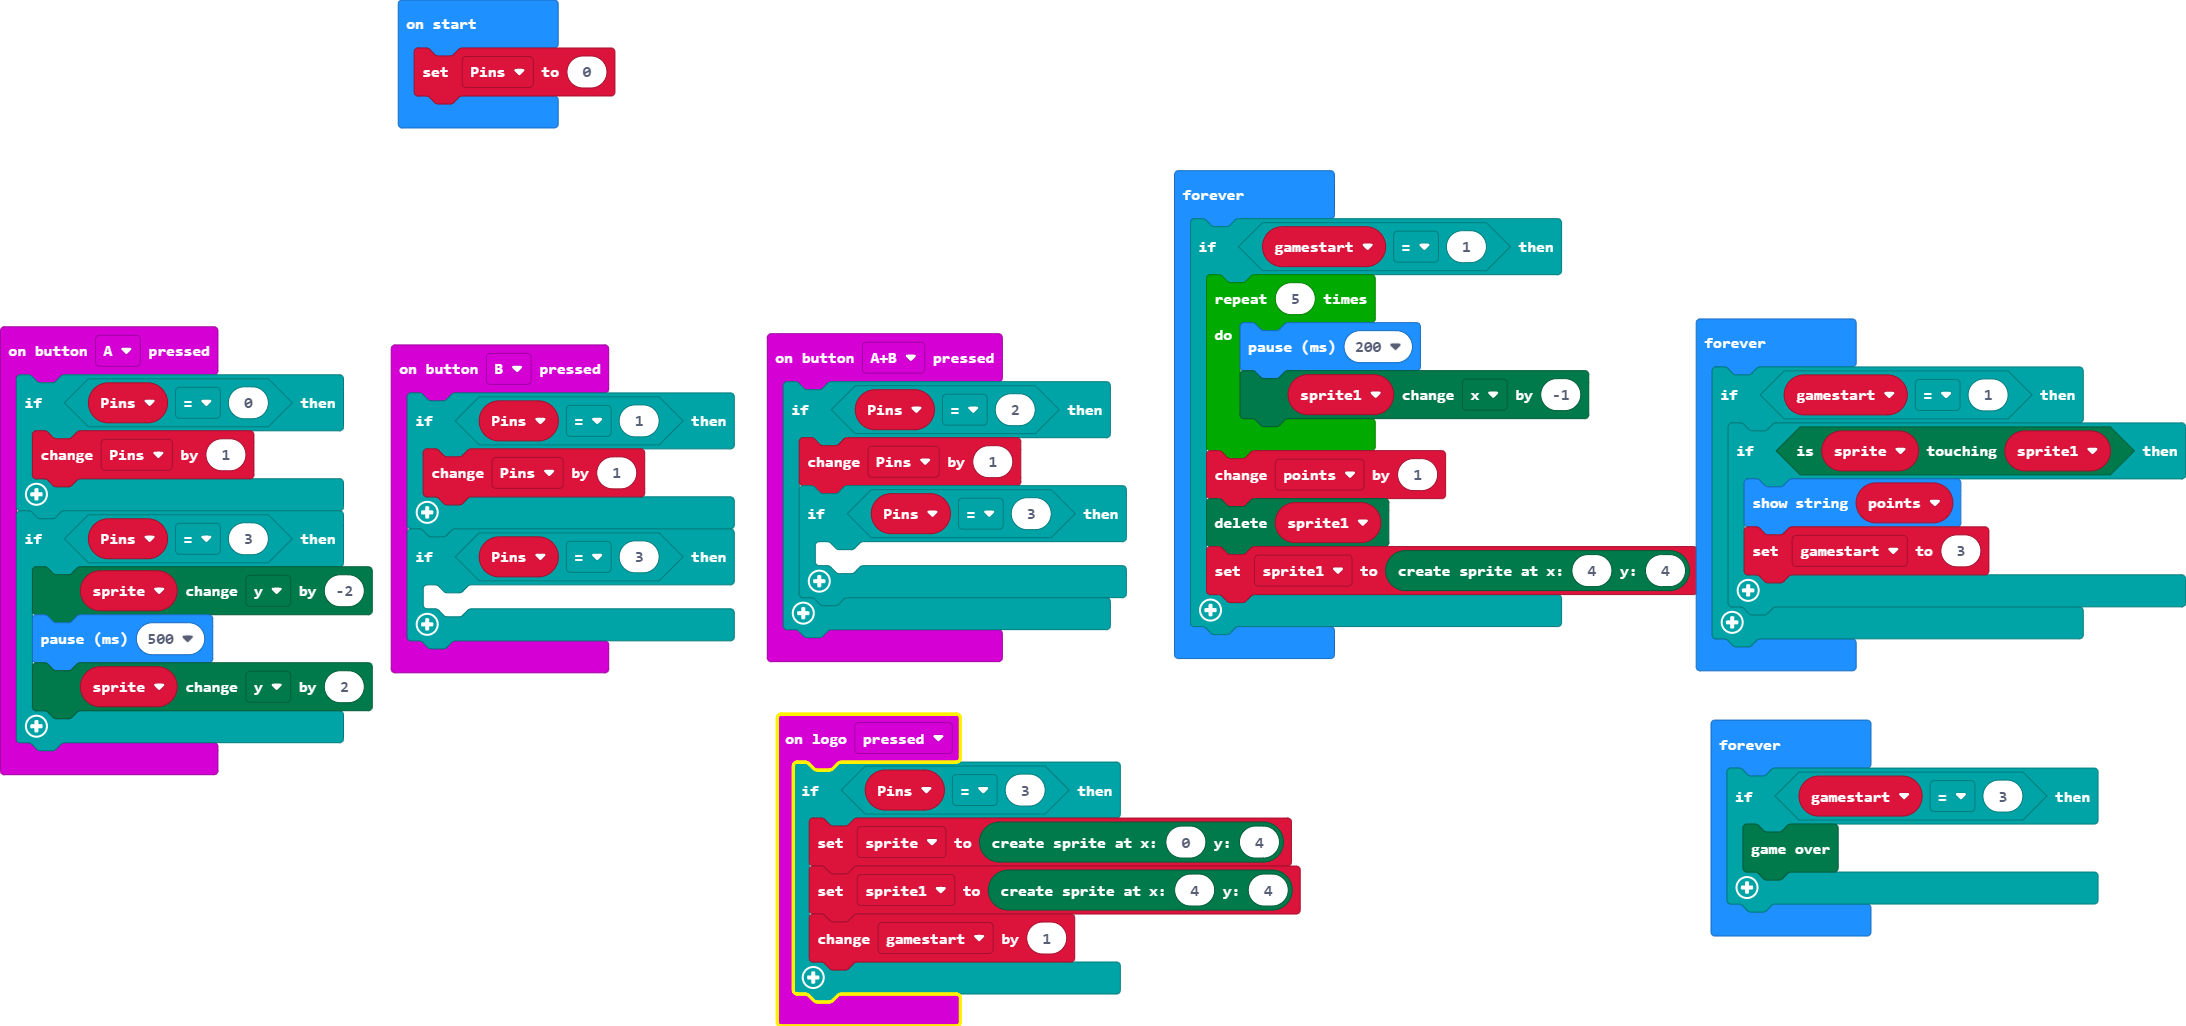
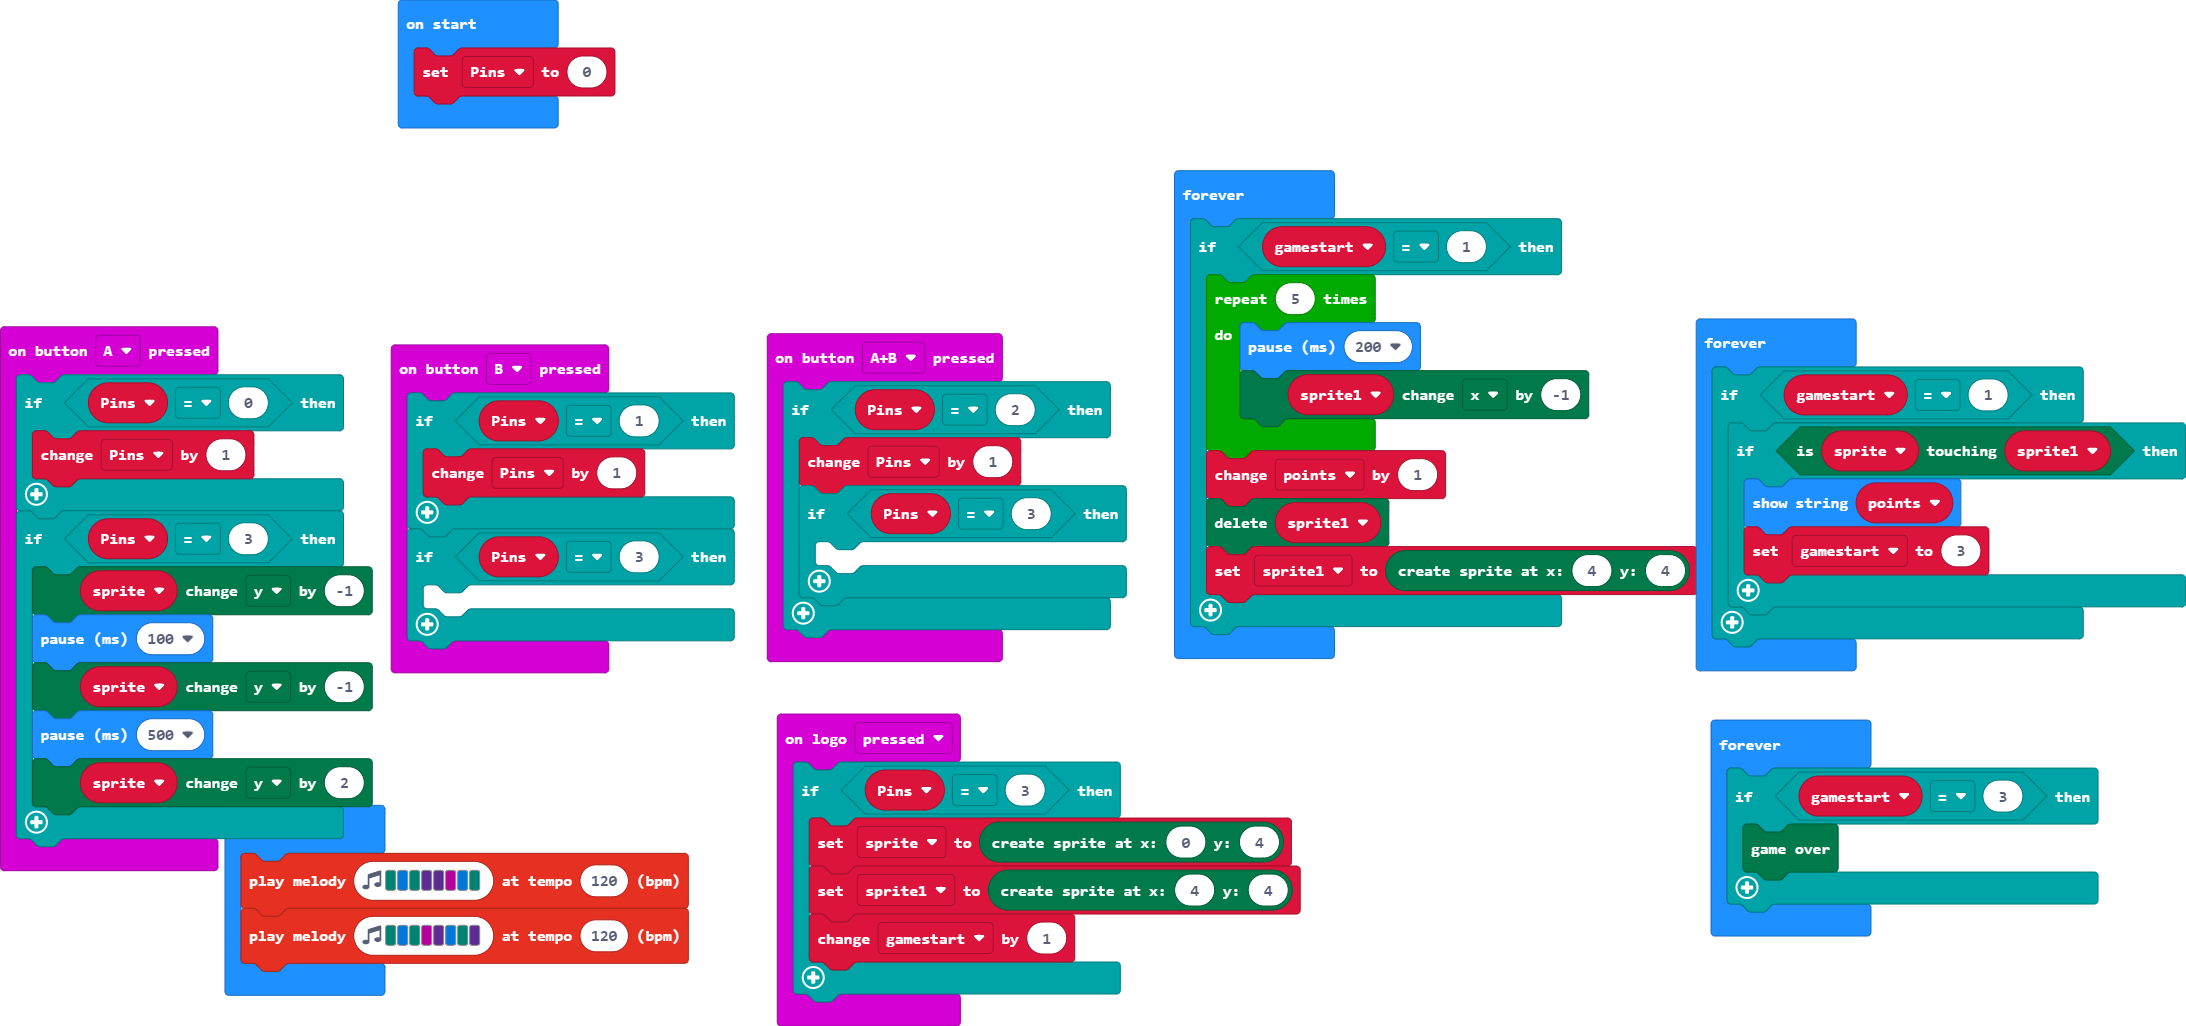
Update main.blocks, main.ts

Changed region(s): [[0.0, 0.6862, 0.4666, 1.0]]

diff --git a/main.ts b/main.ts
@@ -3,7 +3,9 @@ input.onButtonPressed(Button.A, function () {
         Pins += 1
     }
     if (Pins == 3) {
-        sprite.change(LedSpriteProperty.Y, -2)
+        sprite.change(LedSpriteProperty.Y, -1)
+        basic.pause(100)
+        sprite.change(LedSpriteProperty.Y, -1)
         basic.pause(500)
         sprite.change(LedSpriteProperty.Y, 2)
     }
@@ -60,4 +62,8 @@ basic.forever(function () {
     if (gamestart == 3) {
         game.gameOver()
     }
+})
+basic.forever(function () {
+    music.playMelody("F E F D D C E F ", 120)
+    music.playMelody("F E F C D E F D ", 120)
 })
